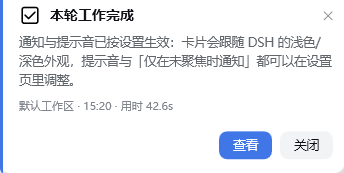
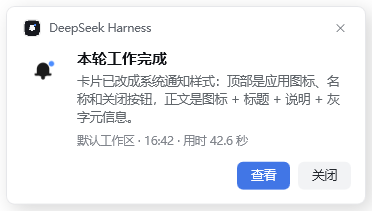
feat(ui): restyle the card as a Windows 11 toast
The card now uses the notification layout people already recognise: a slim
header with the app badge, the app name and a close button; a body with the
bell glyph, a bold title, the message and a dimmed meta line; and actions
tucked into the bottom-right corner (choice options stay as full-width rows).

Glyphs are generated from the plugin icon, per theme, so the card keeps
matching the Harness appearance in both light and dark mode.

diff --git a/README.md b/README.md
@@ -6,6 +6,7 @@
 - **出错通知**：一个 step 失败时，弹出「本轮出错」卡片（红色强调，按钮「关闭」）。
 - **选择判断弹窗**：模型调用 `ask_user_question` 时，把问题与选项做成原生卡片（选项**垂直排列、一行一个**，长文案自动换行）；**点选项即作答**，工具调用立刻拿到答案。关闭/超时/无法渲染时自动回落到 DSH 自带的 Web UI 对话框，行为与未装插件时一致。
 - **跟随外观**：卡片配色取 DSH 设计 token，默认 `theme: auto`——DSH 是浅色就弹浅色卡，切到深色就弹深色卡（偏好为「跟随系统」时再读 Windows 应用主题）。
+- **系统通知外观**：卡片按 Windows 11 通知的排布——顶部是应用图标、应用名和关闭按钮，正文是铃铛图标 + 加粗标题 + 说明文字 + 灰字元信息，操作按钮收在右下角（选择项则是整行排列）。
 
 实现：Host 插件（Node，触发事件）+ `scripts/popup.ps1`（WPF，Windows PowerShell 5.1 即可，不需要 PowerShell 7）。
 
